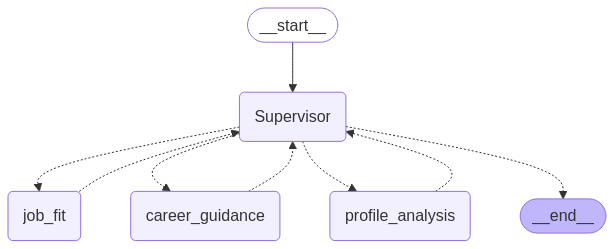
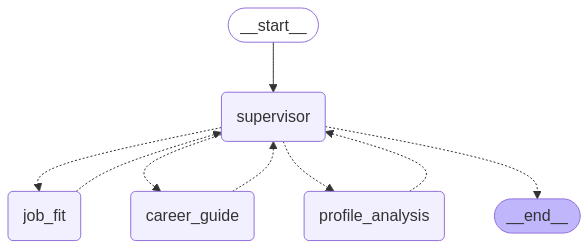
fix: cleaned up agent logic, fixed 'name' in agent nodes

diff --git a/api/agents/supervisor.py b/api/agents/supervisor.py
@@ -6,7 +6,7 @@ from langchain_google_vertexai import ChatVertexAI
 from typing_extensions import TypedDict
 from pydantic import BaseModel, Field
 from typing import List
-from agents.utils import SupervisorState
+from langgraph.graph import MessagesState
 from agents.profile_analysis_agent import profile_analysis_node
 from agents.job_fit_agent import job_fit_node
 from agents.career_guidance_agent import career_guidance_node
@@ -14,13 +14,13 @@ from agents.career_guidance_agent import career_guidance_node
 # Use the same LLM as your agents for consistency
 llm = ChatVertexAI(model="gemini-2.0-flash")
 
-members = ["job_fit", "career_guidance", "profile_analysis"]
+members = ["job_fit", "career_guide", "profile_analysis"]
 # Our team supervisor is an LLM node. It just picks the next agent to process
 # and decides when the work is completed
 options = members + ["FINISH"]
 
 system_prompt = (
-    "You are a supervisor tasked with managing a conversation between the"
+"You are a supervisor tasked with managing a conversation between the"
     f" following workers: {members}. Given the following user request,"
     " respond with the worker to act next. Each worker will perform a"
     " task and respond with their results and status. When finished,"
@@ -33,51 +33,29 @@ class Router(TypedDict):
     next: Literal[*options]
 
 
-def supervisor_node(state: SupervisorState) -> Command[Literal[*members, "__end__"]]:
+def supervisor_node(state: MessagesState) -> Command[Literal[*members, "__end__"]]:
     messages = [
         {"role": "system", "content": system_prompt},
     ] + state["messages"]
     response = llm.with_structured_output(Router).invoke(messages)
+    print("="*50)
+    print(response)
+    print("="*50)
     goto = response["next"]
     if goto == "FINISH":
+        goto = END
+    elif goto not in members:
         goto = END
 
     return Command(goto=goto, update={"next": goto})
 
-def create_career_graph(initial_messages: List[dict] = None, profile_url: str = None):
-    builder = StateGraph(SupervisorState)
-    
-    # Initial state setup
-    initial_state = {
-        "messages": initial_messages or [],
-        "profile_analysis_complete": False,
-        "job_fit_complete": False,
-        "career_guidance_complete": False,
-        "current_step": "start",
-        "steps_taken": 0
-    }
-    
-    # If a profile URL is provided, add it to the initial messages
-    if profile_url:
-        initial_state["messages"].append({
-            "role": "human", 
-            "content": f"Analyze LinkedIn profile: {profile_url}"
-        })
-    
-
-    # Add nodes
-    builder.add_node("Supervisor", supervisor_node)
-    builder.add_node("profile_analysis", profile_analysis_node)
+def create_career_graph():
+    builder = StateGraph(MessagesState)
+    builder.add_edge(START, "supervisor")
+    builder.add_node("supervisor", supervisor_node)
     builder.add_node("job_fit", job_fit_node)
-    builder.add_node("career_guidance", career_guidance_node)
-    
-    # # Define edges
-    # builder.add_edge("profile_analysis", "Supervisor")
-    # builder.add_edge("job_fit", "Supervisor")
-    # builder.add_edge("career_guidance", "Supervisor")
-    
-    # Start at supervisor
-    builder.add_edge(START, "Supervisor")
-    
+    builder.add_node("career_guide", career_guidance_node)
+    builder.add_node("profile_analysis", profile_analysis_node)
+
     # Compile the graph
     return builder.compile()

diff --git a/api/agents/profile_analysis_agent.py b/api/agents/profile_analysis_agent.py
@@ -2,14 +2,14 @@
 from langchain_google_vertexai import ChatVertexAI
 from langchain_core.prompts import ChatPromptTemplate
 from langgraph.prebuilt import create_react_agent
-from langchain_core.messages import AIMessage
-
+from langchain_core.messages import HumanMessage
+from langgraph.graph import MessagesState
 from typing import List, Optional, Literal
 from langgraph.types import Command
 
 
 from agents.tools import scrape_linkedin_profile, basic_search_tool
-from agents.utils import make_agent_system_prompt, SupervisorState
+from agents.utils import make_agent_system_prompt
 
 
 
@@ -30,16 +30,20 @@ llm = ChatVertexAI(model="gemini-2.0-flash")
 
 profile_analysis_agent = create_react_agent(llm, tools=profile_tools, prompt=system_prompt)
 
-def profile_analysis_node(state: SupervisorState) -> Command[Literal['Supervisor']]: 
+def profile_analysis_node(state: MessagesState) -> Command[Literal['supervisor']]: 
     result = profile_analysis_agent.invoke(state)
-    
+    print('=' * 50 )
+    print('Executed: Profile analyser'  )
+    print(result)
+    print('=' * 50 )
     return Command(
         update={
-            "messages": result["messages"],
+            "messages": [
+                HumanMessage(content=result['messages'][-1].content, name="profile_analysis")
+            ]
         },
-        goto="Supervisor"
+        goto="supervisor"
     )
-
 
 __all__ = [
     'profile_analysis_node'

diff --git a/api/agents/career_guidance_agent.py b/api/agents/career_guidance_agent.py
@@ -1,12 +1,12 @@
 # agents/career_guidance_agent.py
 from langchain_google_vertexai import ChatVertexAI
 
-from langchain_core.messages import AIMessage
-
+from langchain_core.messages import HumanMessage
+from langgraph.graph import MessagesState
 from langgraph.prebuilt import create_react_agent
 
 from agents.tools import basic_search_tool # Only needs search
-from agents.utils import make_agent_system_prompt, SupervisorState
+from agents.utils import make_agent_system_prompt
 
 from typing import Literal
 from langgraph.types import Command
@@ -28,14 +28,19 @@ system_prompt = make_agent_system_prompt(
 
 career_guidance_agent  = create_react_agent(llm, tools=guidance_tools, prompt=system_prompt)
 
-def career_guidance_node(state: SupervisorState) -> Command[Literal['Supervisor']]: 
+def career_guidance_node(state: MessagesState) -> Command[Literal['supervisor']]: 
     result = career_guidance_agent.invoke(state)
-    
+    print('=' * 50 )
+    print('Executed: Career Guidance'  )
+    print(result)
+    print('=' * 50 )
     return Command(
         update={
-            "messages": result["messages"],
+            "messages": [
+                HumanMessage(content=result['messages'][-1].content, name="career_guide")
+            ]
         },
-        goto="Supervisor"
+        goto="supervisor"
     )
 
 

diff --git a/api/agents/job_fit_agent.py b/api/agents/job_fit_agent.py
@@ -2,13 +2,13 @@
 from langchain_google_vertexai import ChatVertexAI
 
 from langgraph.prebuilt import create_react_agent
-from langchain_core.messages import  AIMessage
-
+from langchain_core.messages import  HumanMessage
+from langgraph.graph import MessagesState
 from typing import List, Optional, Literal
 from langgraph.types import Command
 
 from agents.tools import basic_search_tool # Only needs search
-from agents.utils import make_agent_system_prompt, SupervisorState
+from agents.utils import make_agent_system_prompt
 
 # Tools specific to this agent
 job_fit_tools = [basic_search_tool]
@@ -35,14 +35,19 @@ job_fit_agent = create_react_agent(llm, tools=job_fit_tools, prompt=system_promp
 
 
 
-def job_fit_node(state: SupervisorState) -> Command[Literal['Supervisor']]: 
+def job_fit_node(state: MessagesState) -> Command[Literal['supervisor']]: 
     result = job_fit_agent.invoke(state)
-    
+    print('=' * 50 )
+    print('Executed: Job Fit'  )
+    print(result)
+    print('=' * 50 )
     return Command(
         update={
-            "messages": result["messages"],
+            "messages": [
+                HumanMessage(content=result['messages'][-1].content, name="job_fit")
+            ]
         },
-        goto="Supervisor"
+        goto="supervisor"
     )
 
     

diff --git a/api/agents/utils.py b/api/agents/utils.py
@@ -15,10 +15,6 @@ load_dotenv()
 
 DATABASE_URI = os.getenv('DATABASE_URI', 'agent_checkpoint.sqlite')
 
-class SupervisorState(TypedDict):
-    messages: List[dict]
-    current_step: str
-    steps_taken: int
 
 def create_sqlite_memory():
     """Creates a SQLite-based checkpoint saver."""
